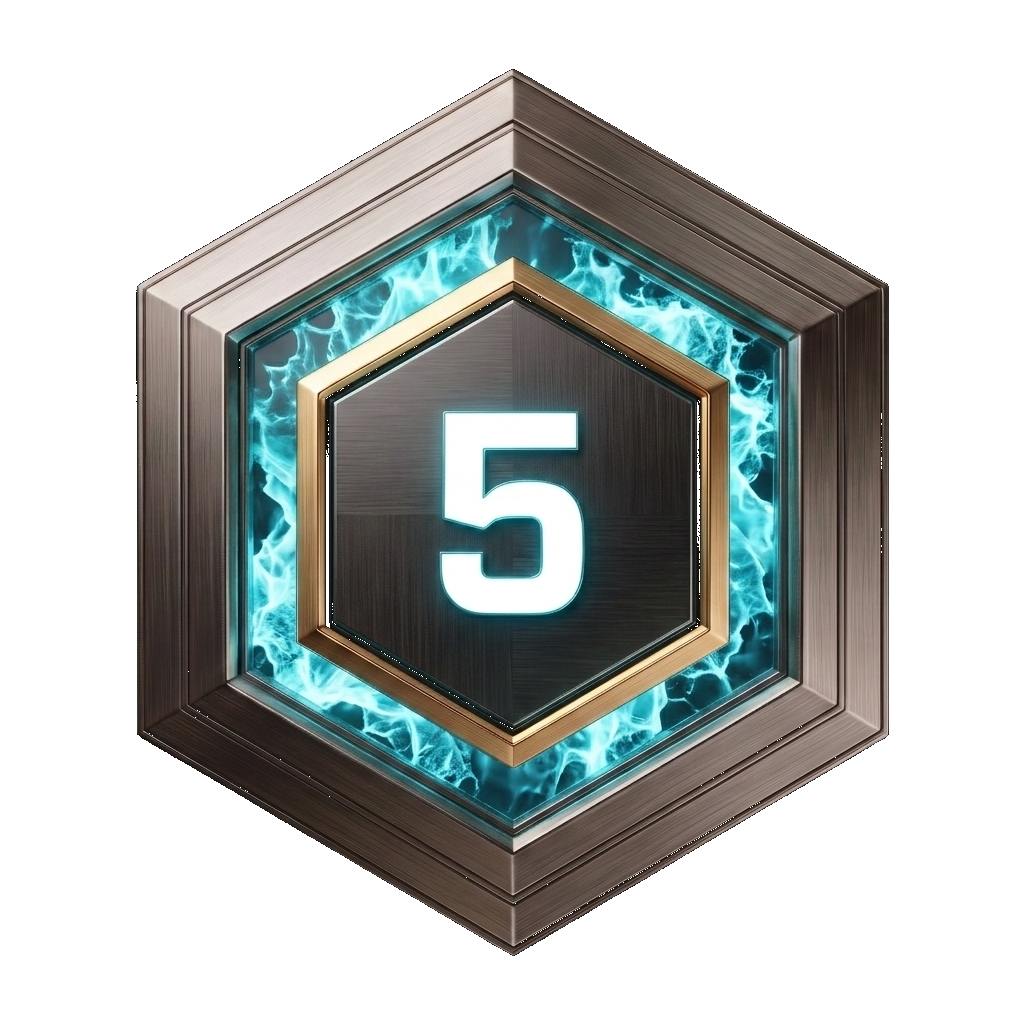
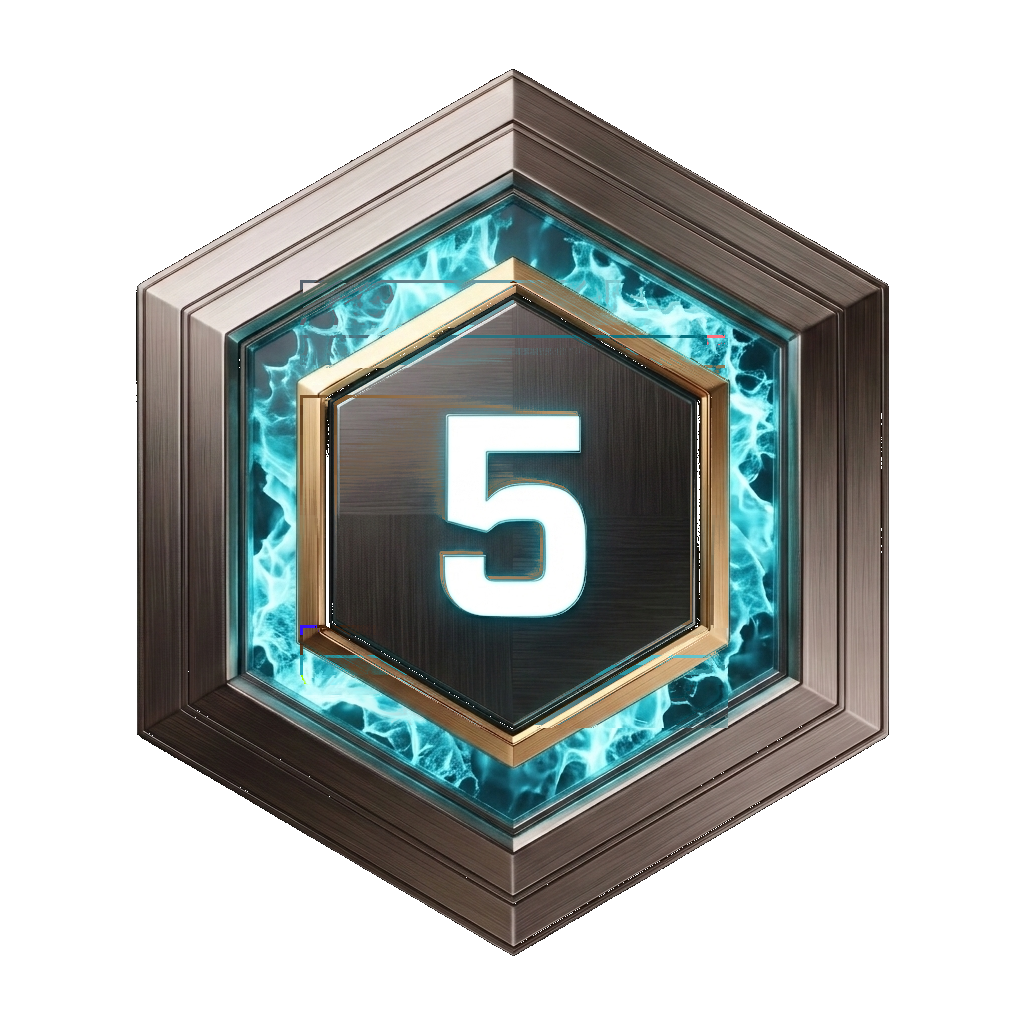
v2.5.43 : Seamlessly centered inner digits and fixed 360 degree radiant fire particle engine

diff --git a/main.js b/main.js
@@ -198,7 +198,7 @@ window.getFurnaceIconHtml = (level, size = 48) => {
      const canvasOffset = Math.round((canvasSize - size) / 2);
      return `<span class="fc-badge-stage" data-fc="${fcNum}" style="display:inline-flex; align-items:center; justify-content:center; position:relative; vertical-align:middle; cursor:pointer; width:${size}px; height:${size}px; user-select:none; -webkit-user-select:none;">
        <canvas class="fc-flame-canvas" width="${canvasSize}" height="${canvasSize}" style="position:absolute; top:-${canvasOffset}px; left:-${canvasOffset}px; width:${canvasSize}px; height:${canvasSize}px; pointer-events:none; z-index:3;"></canvas>
-       <img src="./badges/fc${fcNum}.png?v=2.5.42" onerror="this.onerror=null; this.src='/badges/fc${fcNum}.png?v=2.5.42';" alt="Fire Crystal ${fcNum}" title="Fire Crystal ${fcNum} (FC ${fcNum})" style="width:${size}px; height:${size}px; object-fit:contain; filter:drop-shadow(0 0 ${Math.max(6, Math.round(size/3.5))}px ${glow}); vertical-align:middle; transition:transform 0.25s cubic-bezier(0.175, 0.885, 0.32, 1.275); position:relative; z-index:2;" loading="lazy">
+       <img src="./badges/fc${fcNum}.png?v=2.5.43" onerror="this.onerror=null; this.src='/badges/fc${fcNum}.png?v=2.5.43';" alt="Fire Crystal ${fcNum}" title="Fire Crystal ${fcNum} (FC ${fcNum})" style="width:${size}px; height:${size}px; object-fit:contain; filter:drop-shadow(0 0 ${Math.max(6, Math.round(size/3.5))}px ${glow}); vertical-align:middle; transition:transform 0.25s cubic-bezier(0.175, 0.885, 0.32, 1.275); position:relative; z-index:2;" loading="lazy">
      </span>`;
   }
 
@@ -21371,13 +21371,15 @@ window.closeMobileNavModal = () => {
 
   class FlameWisp {
     constructor(cx, cy, radius, colors) {
-      this.x = cx + (Math.random() - 0.5) * (radius * 0.8);
-      this.y = cy + (Math.random() - 0.5) * (radius * 0.4) + (radius * 0.2);
-      this.vx = (Math.random() - 0.5) * (radius * 0.015);
-      this.vy = -Math.random() * (radius * 0.035) - (radius * 0.015);
-      this.size = Math.random() * (radius * 0.12) + (radius * 0.05);
-      this.alpha = 1.0;
-      this.decay = Math.random() * 0.025 + 0.012;
+      const angle = Math.random() * Math.PI * 2;
+      const dist = (radius * 0.42) + (Math.random() * radius * 0.22);
+      this.x = cx + Math.cos(angle) * dist;
+      this.y = cy + Math.sin(angle) * dist;
+      this.vx = Math.cos(angle) * (radius * 0.012) + (Math.random() - 0.5) * 0.5;
+      this.vy = Math.sin(angle) * (radius * 0.012) - (radius * 0.025);
+      this.size = Math.random() * (radius * 0.09) + (radius * 0.04);
+      this.alpha = 0.9;
+      this.decay = Math.random() * 0.028 + 0.014;
       this.waveSpeed = Math.random() * 0.1 + 0.05;
       this.waveAngle = Math.random() * Math.PI * 2;
       this.colors = colors;

diff --git a/index.html b/index.html
@@ -38,7 +38,7 @@
               👁 <span id="views-counter">...</span>
             </span>
             <span id="versionBadge" title="Click to view Changelog" style="background: rgba(168, 85, 247, 0.2); color: #a855f7; padding: 2px 6px; border-radius: 10px; font-weight: bold; display:flex; align-items:center; gap:4px; cursor:pointer;">
-              v2.5.42
+              v2.5.43
             </span>
             <span id="navbar-user-indicator" onclick="if(window.views && window.views.account) window.views.account();" title="Click to open Chief Profile" style="display:none; background: rgba(59, 130, 246, 0.18); border: 1px solid rgba(59, 130, 246, 0.4); color: #60a5fa; padding: 2px 8px; border-radius: 10px; font-weight: bold; align-items:center; gap:4px; max-width: 150px; white-space: nowrap; overflow: hidden; text-overflow: ellipsis; cursor: pointer;">
             </span>

diff --git a/CHANGELOG.md b/CHANGELOG.md
@@ -1,5 +1,9 @@
 # CHANGELOG
 
+## [2.5.43] - 2026-08-14
+- Seamlessly realigned and centered the inner white digits (`1` through `10`) to exact geometric center `(512, 512)` within the metallic hexagon plates across all 10 Fire Crystal badge PNG files.
+- Upgraded the Fire Crystal interactive particle engine to emanate a 360° balanced radiant ember aura symmetrically around the shield, eliminating particle drift and left-side clustering.
+
 ## [2.5.42] - 2026-08-14
 - Removed off-center stray sparkle pixels in the transparent borders of Fire Crystal badge images `fc1.png` through `fc10.png`.
 - Re-encoded and recalibrated all 10 Fire Crystal badge PNG graphics to exact `(512.0, 512.0)` geometric dead center.

diff --git a/public/CHANGELOG.md b/public/CHANGELOG.md
@@ -1,5 +1,9 @@
 # CHANGELOG
 
+## [2.5.43] - 2026-08-14
+- Seamlessly realigned and centered the inner white digits (`1` through `10`) to exact geometric center `(512, 512)` within the metallic hexagon plates across all 10 Fire Crystal badge PNG files.
+- Upgraded the Fire Crystal interactive particle engine to emanate a 360° balanced radiant ember aura symmetrically around the shield, eliminating particle drift and left-side clustering.
+
 ## [2.5.42] - 2026-08-14
 - Removed off-center stray sparkle pixels in the transparent borders of Fire Crystal badge images `fc1.png` through `fc10.png`.
 - Re-encoded and recalibrated all 10 Fire Crystal badge PNG graphics to exact `(512.0, 512.0)` geometric dead center.
